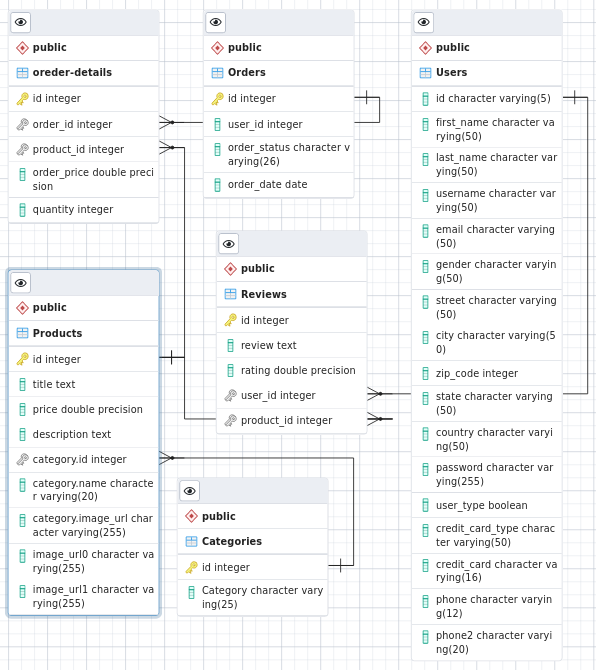
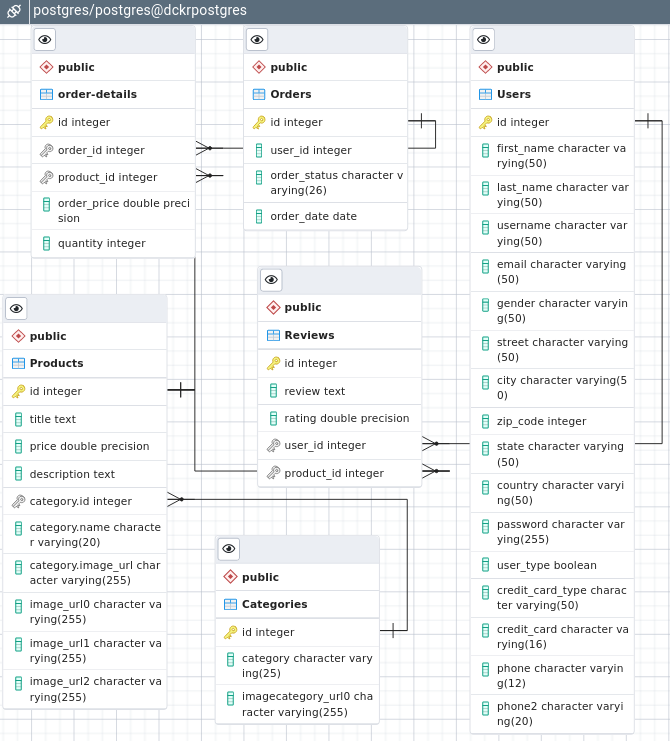
Images with Queries to Heroku DB and Local Docker al readt running. Edited README to log results, update links to images, CSV datasets,SQL scripts used

diff --git a/docs/README.md b/docs/README.md
@@ -18,24 +18,46 @@ Here you will find all the planning design and scope documentation for this deve
 
 ## 📑 Deliverables S2
 
-Create and config a data basefor the project. **BeduShop**. 
+Create and config a database for the project. **BeduShop**. 
 
-1. ![Diagrama1 entidad relación con las entidades del proyecto](./images/ERD-dbschema.png) ✅❌
+1.  ERD for the project (first aproach)    ✅
+![Diagrama1 entidad relación con las entidades del proyecto ](./images/ERD-entitiesRelsTablesDiagram.png) 
 
-![Diagrama1 entidad relación con las entidades del proyecto](./images/ERD-entitiesRelsTablesDiagram.png) ✅❌
+ ERD for the project (second aproach)    ✅
+![Diagrama1 entidad relación con las entidades del proyecto](./images/ERD-dbschema.png)
 
-2. Pruebas de Conexión
+2. Conectivity to DB in local docker  ✅ and Heroku dB ✅
 
 - ![Conexión mediante PgAdmin4 al servidor de heroku](./images/screenPgadminHerokuDB.png)
 
 - ![Prueba en Docker/Local](./images/screenPgadminDckrDB.png)
 
 
-3. ![Traducción del modelo relacional que definimos a un esquema de base de datos](./images/dbschema.png)    ✅❌
+3. db Schema used and tested via PGAdmin   ✅
+![Traducción del modelo relacional que definimos a un esquema de base de datos](./images/dbschema.png)   
 
-4. ![Datasets para poblar las bases de datos.](./images/datasets/entity.csv) Generated, related and loades to folder.    ✅ DB upload  (not yet) ❌
+4. Datasets to populate dB. 
+Generated, related and loaded to folder.    ✅  DB upload    ✅
+- ![users dataset](./datasets/users.csv)
+- ![products dataset](./datasets/products.csv)
+- ![categories dataset](./datasets/categories.csv)
+- ![orders dataset](./datasets/orders.csv)
+- ![details dataset](./datasets/-details.csv)
+- ![reviews dataset](./datasets/reviews.csv)
 
-5. ![Pruebas de consultas a la base de datos.](./queries.sql)    ❌
+
+
+5. First Queries to the dB.   ✅ 
+
+SQLScript to create db Table ![SQLScript to create db Tables](./bedushopSQL.sql)
+
+![Pruebas de consultas a la base de datos.](./images/queryUsersTableinHerokuDB.png)
+
+![Pruebas de consultas a la base de datos.](./images/queryCategoriesTable.png)
+
+![Pruebas de consultas a la base de datos.](./images/queryToProductsTablesHerokuDB.png)
+
+![Pruebas de consultas a la base de datos.](./images/queryProductsTableinHerokuDB.png)
 
 ## 📑 CHECKLIST S2
 
